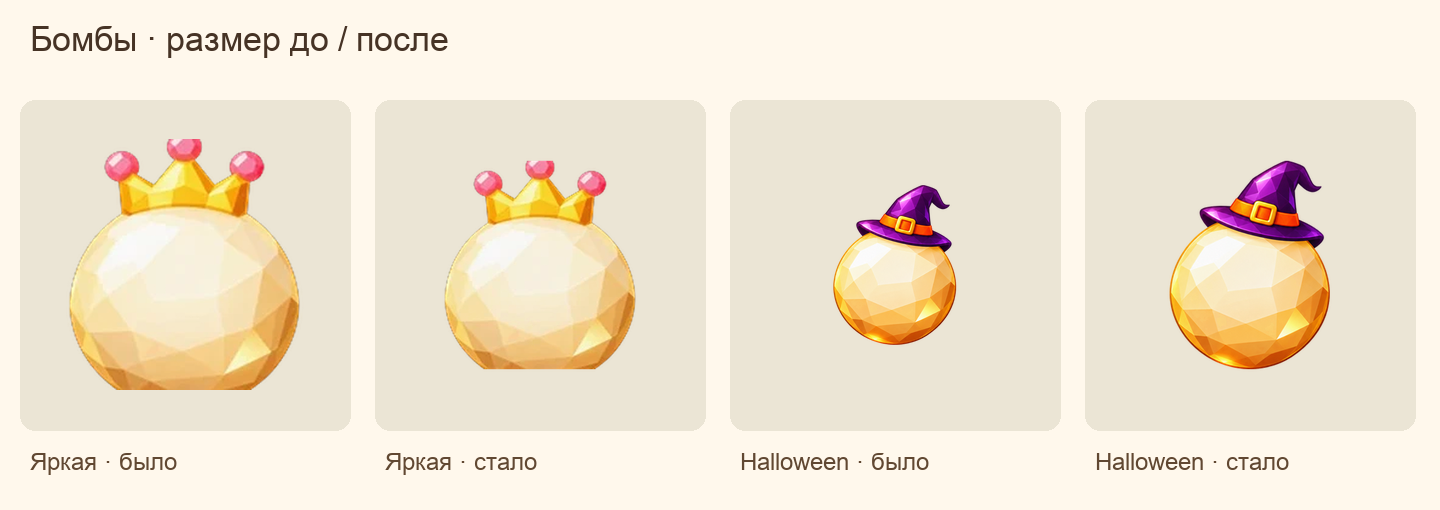
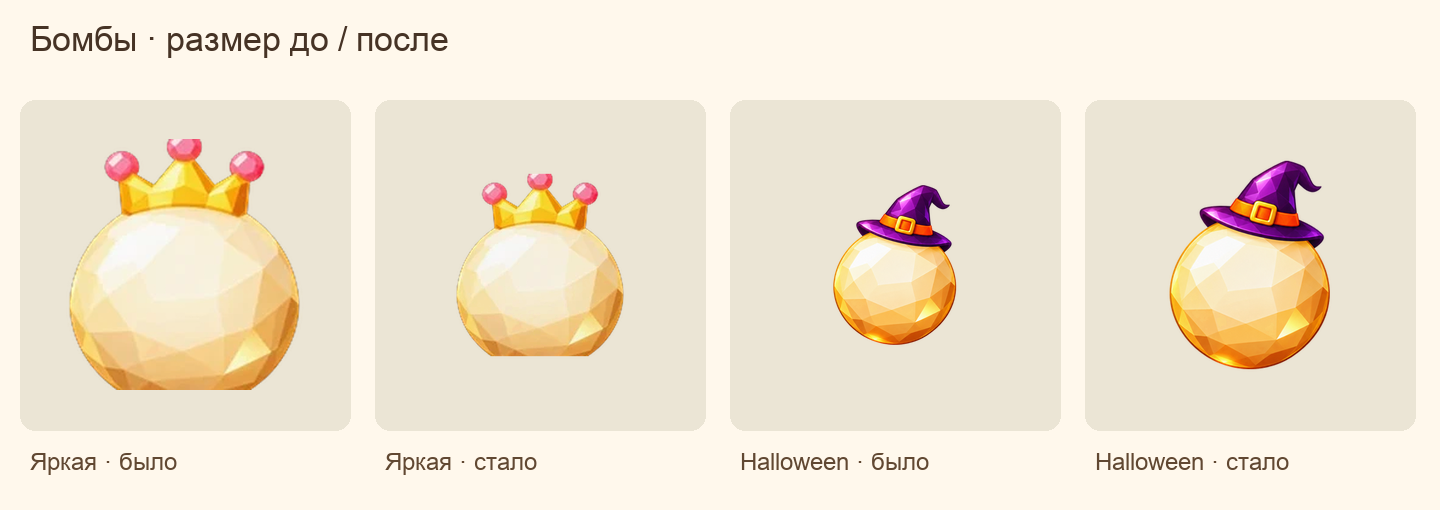
art: reduce current bright bomb to match other bomb sizes

Changed region(s): [[0.2812, 0.3235, 0.4688, 0.7353]]

diff --git a/scripts/art_asset_catalog.py b/scripts/art_asset_catalog.py
@@ -149,6 +149,8 @@ def classify(rel):
         reviews_v5={'all-glyph-styles-v5':'Все глифы / единые Halloween-детали v5','bomb-size-v5':'Яркие бомбы / размер до и после','zhuzha-vampire-v5':'Жужа / плащ вампира до и после v5'}
         if stem in reviews_v5:title=reviews_v5[stem];role='Лист / сравнение';status='Кандидат / вариант';style='Сравнение стилей'
         if '/sources/rework-v5/' in p:role='Лист / источник';status='Архив / пробы'
+    if p == 'design/2d/halloween/review/bright-bomb-size-v6.png':
+        title='Яркая бомба / уменьшение до размера остальных v6';role='Лист / сравнение';status='Кандидат / вариант';style='Сравнение стилей'
     return dict(title=title,category=category,role=role,style=style,season=season,status=status,species=species,accessory=accessory)
 
 def build(target):

diff --git a/design/2d/halloween/REVIEW_V5.ru.md b/design/2d/halloween/REVIEW_V5.ru.md
@@ -6,7 +6,7 @@
 
 Мягкий кристалл, матовая пастель и тёплый воск перерисованы встроенным image_gen тремя атласами по восемь спрайтов. Декоративный состав согласован с одобренным ярким Halloween: тыква и листья на солнце, два шва на сердце, паутинка на цветке, месяц на капле, два кленовых листа, месяц и два фиолетовых кристалла на джокере. Бомба во всех Halloween-вариантах теперь в ведьминской шляпе вместо короны. Различия материала и контраста сохранены. Тыква также включена в атласы для согласованности материала.
 
-tiles/rework-v5/{hsoft,hpastel,hwax}/ — 24 отдельных PNG. Яркие шесть глифов и яркая тыква не перерисованы. tiles/rework-v5/{bright,hbright}/bomb.png — существующие рисунки с исправленным масштабом: видимый рисунок вписан в 368×368 на прозрачном 512×512. Обычная яркая бомба уменьшена, яркая Halloween увеличена; обе имеют одинаковую максимальную высоту. Масштабирование пропорциональное, альфа сохранена, цвета не менялись. Нехеллоуинские мягкие наборы не изменены.
+tiles/rework-v5/{hsoft,hpastel,hwax}/ — 24 отдельных PNG. Яркие шесть глифов и яркая тыква не перерисованы. tiles/rework-v5/{bright,hbright}/bomb.png — существующие рисунки с исправленным масштабом: видимый рисунок вписан в 368×368 на прозрачном 512×512. Обычная яркая бомба уменьшена, яркая Halloween увеличена; последующая правка v6 уменьшает обычную яркую ещё до 296 пикселей по ширине, чтобы массивный шар визуально совпадал с остальными бомбами. Масштабирование пропорциональное, альфа сохранена, цвета не менялись. Нехеллоуинские мягкие наборы не изменены.
 
 ## Плащ
 
@@ -20,3 +20,7 @@ review/zhuzha-vampire-v5.png — плащ до/после в двух ракур
 Исходные генерации: sources/rework-v5/. Все промпты, инструмент и параметры экспорта: prompts-rework-v5.json. Атласы разделены по фиксированной сетке 4×2, удалены только отдельные альфа-артефакты вне главного компонента, затем спрайты вписаны в рабочие холсты. Глифы 720×624 RGBA, бомбы 512×512 RGBA, примерки 512×512 RGBA, профиль sRGB.
 
 Это дизайн-кандидаты. Игра, экономика, сохранения, APK и рабочие runtime-ассеты не изменены. Предыдущие версии оставлены для сравнения.
+
+## Правка v6
+
+По замечанию владельца обычная яркая бомба дополнительно уменьшена: ширина видимого рисунка 338→296 (−12,4%), прозрачный холст 512×512 сохранён. Сравнение: review/bright-bomb-size-v6.png. Остальные бомбы не изменены.
